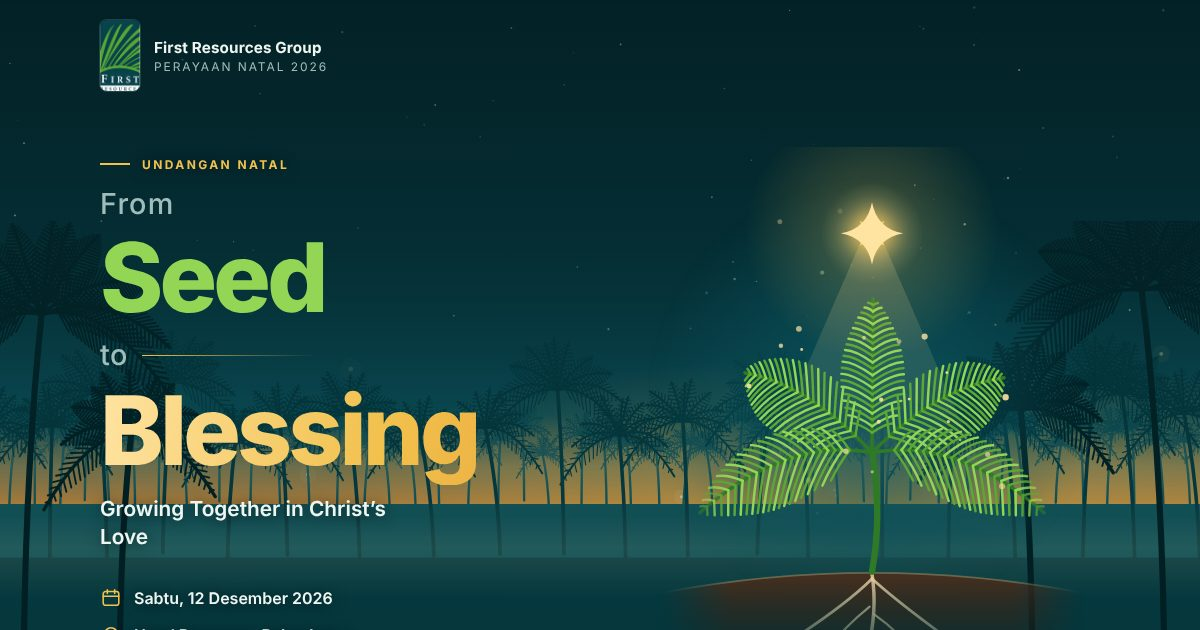
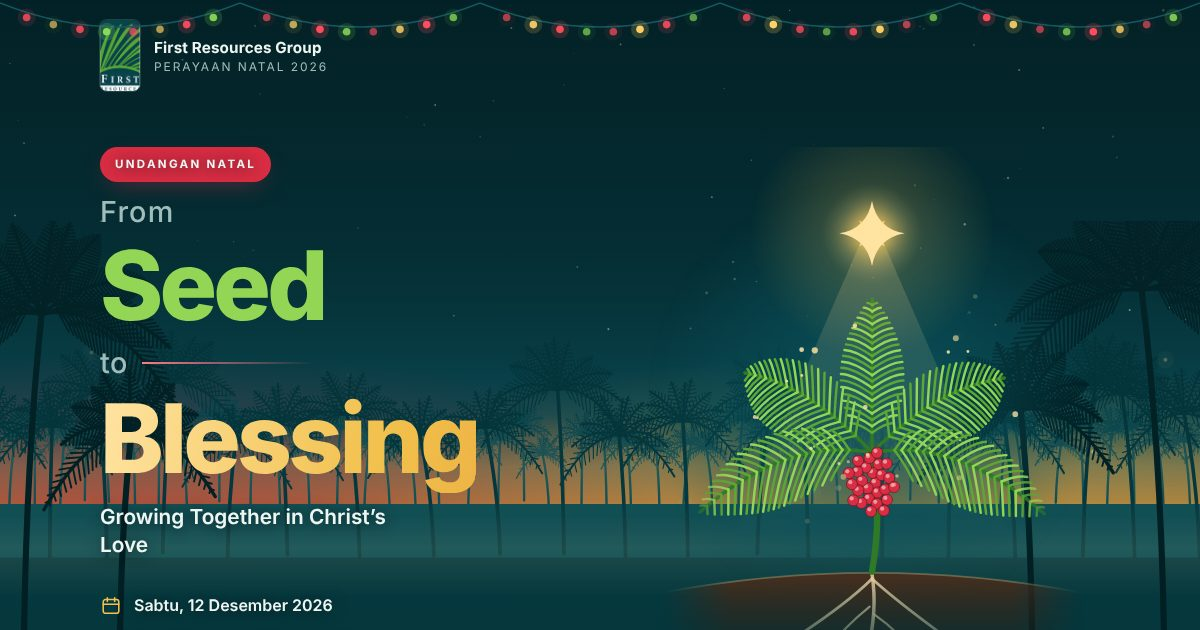
Ganti Warna

diff --git a/index.html b/index.html
@@ -46,6 +46,11 @@
     --gold: #f2c14e;
     --gold-soft: #ffe3a1;
     --gold-glow: rgba(242, 193, 78, 0.55);
+    --red: #d92d43;
+    --red-deep: #8e1628;
+    --red-soft: #ff7a8a;
+    --red-glow: rgba(217, 45, 67, 0.6);
+    --red-line: rgba(255, 122, 138, 0.35);
     --root: #e6cfa3;
     --soil: #4a3322;
     --soil-deep: #1d150f;
@@ -84,8 +89,10 @@
     position: absolute; inset: 0;
     background:
       radial-gradient(70% 34% at 74% 80%, rgba(242, 193, 78, .5), rgba(242, 193, 78, 0) 70%),
+      radial-gradient(75% 36% at 12% 82%, rgba(217, 45, 67, .6), rgba(217, 45, 67, 0) 72%),
       linear-gradient(180deg, var(--sky-0) 0%, var(--sky-1) 42%, var(--sky-2) 66%, var(--dawn) 80%, var(--sky-2) 100%);
   }
+  .lights { position: absolute; top: 0; left: 0; width: 100%; height: 84px; pointer-events: none; }
   .fx { position: absolute; inset: 0; width: 100%; height: 100%; }
   .pl { position: absolute; left: 0; width: 100%; will-change: transform; }
   .mist {
@@ -109,10 +116,10 @@
 
   .hero-grid { display: grid; gap: 4px 40px; grid-template-columns: minmax(0, 1fr); margin-top: 34px; }
   .eyebrow {
-    display: inline-flex; align-items: center; gap: 12px; margin: 0;
-    font-size: .75rem; font-weight: 700; letter-spacing: .2em; text-transform: uppercase; color: var(--gold);
+    display: inline-flex; align-items: center; margin: 0; padding: 8px 15px; border-radius: 999px;
+    background: var(--red); color: var(--snow); box-shadow: 0 8px 24px -10px var(--red-glow);
+    font-size: .72rem; font-weight: 700; letter-spacing: .2em; text-transform: uppercase;
   }
-  .eyebrow::before { content: ""; width: 30px; height: 2px; background: var(--gold); }
 
   h1 {
     margin: 16px 0 0;
@@ -132,8 +139,8 @@
     margin-block: .7em .6em;
   }
   h1 .to::after {
-    content: ""; flex: 0 1 6em; height: 1px; transform-origin: left;
-    background: linear-gradient(90deg, var(--gold), transparent);
+    content: ""; flex: 0 1 6em; height: 2px; transform-origin: left;
+    background: linear-gradient(90deg, var(--red-soft), transparent);
     animation: grow 1.1s .6s cubic-bezier(.2, .7, .2, 1) both;
   }
   h1 .bless { padding-bottom: .12em; margin-bottom: -.12em; color: var(--gold); background: linear-gradient(100deg, var(--gold-soft), var(--gold) 55%, #e8a63a); -webkit-background-clip: text; background-clip: text; }
@@ -179,6 +186,8 @@
     transition: transform .2s ease, background-color .2s ease, box-shadow .2s ease;
   }
   .btn:hover { background: var(--gold-soft); transform: translateY(-2px); }
+  .btn.red { background: var(--red); color: var(--snow); box-shadow: 0 10px 30px -12px var(--red-glow); }
+  .btn.red:hover { background: #ea4a5e; }
   .btn.ghost { background: transparent; color: var(--snow); border-color: var(--line-strong); box-shadow: none; }
   .btn.ghost:hover { background: rgba(238, 246, 242, .08); }
   .btn[aria-disabled="true"] { background: transparent; color: var(--mist); border-color: var(--line-strong); box-shadow: none; cursor: default; transform: none; }
@@ -189,10 +198,10 @@
     margin: 0; display: flex; align-items: center; gap: 12px;
     font-size: .75rem; font-weight: 700; letter-spacing: .18em; text-transform: uppercase; color: var(--mist);
   }
-  .label::before { content: ""; width: 22px; height: 2px; background: var(--palm); }
+  .label::before { content: ""; width: 22px; height: 2px; background: var(--red); }
   .cd { display: grid; grid-template-columns: repeat(4, minmax(0, 1fr)); margin-top: 18px; }
   .cd > div { padding-right: 10px; }
-  .cd > div + div { padding-left: 14px; border-left: 1px solid var(--line); }
+  .cd > div + div { padding-left: 14px; border-left: 1px solid var(--red-line); }
   .cd-n { font-family: var(--f-display); font-weight: 700; font-size: clamp(2.2rem, 11.5vw, 3.8rem); line-height: 1; letter-spacing: -.03em; font-variant-numeric: tabular-nums; }
   .cd-l { margin-top: 8px; font-size: .72rem; letter-spacing: .16em; text-transform: uppercase; color: var(--mist); }
   .cd-done { margin: 18px 0 0; font-family: var(--f-display); font-weight: 700; font-size: clamp(1.6rem, 7vw, 2.4rem); line-height: 1.15; color: var(--gold); }
@@ -208,11 +217,11 @@
   .lead { margin: 0; font-family: var(--f-display); font-weight: 600; font-size: clamp(1.55rem, 6.4vw, 2.4rem); line-height: 1.18; letter-spacing: -.02em; text-wrap: balance; }
   .lead em, .stages b { font-style: normal; }
   .c-benih { --c: var(--palm-hi); --c2: var(--root); }
-  .c-akar { --c: var(--root); --c2: var(--gold); }
-  .c-berkat { --c: var(--gold); }
+  .c-akar { --c: var(--root); --c2: var(--red-soft); }
+  .c-berkat { --c: var(--red-soft); }
   .lead em { color: var(--c); }
 
-  .verse { margin: 28px 0 0; padding: 0; max-width: 54ch; }
+  .verse { margin: 28px 0 0; padding: 2px 0 2px 18px; max-width: 54ch; border-left: 3px solid var(--red); }
   .verse p { margin: 0; font-size: 1.05rem; color: var(--snow); }
   .verse cite { display: block; margin-top: 12px; font-style: normal; font-weight: 700; font-size: .8rem; letter-spacing: .16em; text-transform: uppercase; color: var(--gold); }
 
@@ -237,8 +246,8 @@
   .actions { display: flex; flex-wrap: wrap; gap: 12px; margin-top: 30px; }
 
   .rsvp-panel {
-    padding: 30px 22px 26px; border-radius: 24px; border: 1px solid var(--line);
-    background: linear-gradient(160deg, var(--teal-2), var(--teal) 70%);
+    padding: 30px 22px 26px; border-radius: 24px; border: 1px solid var(--red-line);
+    background: linear-gradient(160deg, var(--red-deep), #4f0d1a 78%);
   }
   .rsvp-panel p { margin: 0; max-width: 46ch; color: var(--snow); }
   .asks { list-style: none; margin: 24px 0 28px; padding: 0; border-top: 1px solid var(--line); }
@@ -282,6 +291,8 @@
 </style>
 </head>
 <body>
+<canvas class="lights" id="lights" aria-hidden="true"></canvas>
+
 <div class="scene" aria-hidden="true">
   <div class="sky"></div>
   <canvas class="fx" id="fx"></canvas>
@@ -323,7 +334,7 @@
             <span>Hotel Pangeran, Pekanbaru</span>
           </li>
         </ul>
-        <a class="btn" href="#rsvp">Konfirmasi Kehadiran</a>
+        <a class="btn red" href="#rsvp">Konfirmasi Kehadiran</a>
       </div>
     </div>
   </header>
@@ -400,7 +411,7 @@
   /* Pengaturan yang mungkin diubah panitia */
   var CONFIG = {
     tanggal: '2026-12-12T00:00:00+07:00',
-    formUrl: 'https://docs.google.com/forms/d/e/1FAIpQLSf_RERWH_88UIXG8v-10HI5JQ9boYdxEeEpC-IaVxxR_7iW7Q/viewform?usp=publish-editor' /* isi dengan tautan Google Form kehadiran */
+    formUrl: '' /* isi dengan tautan Google Form kehadiran */
   };
 
   var reduce = !!(window.matchMedia && window.matchMedia('(prefers-reduced-motion: reduce)').matches);
@@ -502,6 +513,7 @@
 
     var vw = 0, vh = 0, extra = 0, topY = 0, stars = [], flies = [];
     var fctx = fx.getContext('2d');
+    var lights = document.getElementById('lights'), lctx = lights && lights.getContext ? lights.getContext('2d') : null, ldpr = 1;
     var PAR = [{ k: 0.05 }, { k: 0.12 }, { k: 0.22 }];
 
     function build() {
@@ -539,6 +551,7 @@
         }
       }
       fx.width = vw; fx.height = vh;
+      if (lctx) { ldpr = Math.min(window.devicePixelRatio || 1, 2); lights.width = Math.round(vw * ldpr); lights.height = Math.round(84 * ldpr); }
       stars = []; flies = [];
       for (var i = 0; i < 70; i++) stars.push({ x: rr(0, vw), y: rr(0, vh * 0.55), r: rr(0.4, 1.3), p: rr(0, 6.28) });
       for (var j = 0; j < 28; j++) flies.push({ x: rr(0, vw), v: rr(7, 16), o: rr(0, 600), p: rr(0, 6.28), r: rr(1.2, 2.5) });
@@ -546,7 +559,33 @@
       onScroll();
     }
 
+    function drawLights(t) {
+      if (!lctx) return;
+      lctx.setTransform(ldpr, 0, 0, ldpr, 0, 0);
+      lctx.clearRect(0, 0, vw, 84);
+      var n = Math.max(2, Math.round(vw / (vw < 700 ? vw / 3 : 230))), sag = 24, y0 = 3, idx = 0, i, k;
+      var cols = ['#ff4d5e', '#ffd166', '#ff4d5e', '#8bdc55'];
+      lctx.lineWidth = 1.4; lctx.strokeStyle = '#14575f';
+      for (i = 0; i < n; i++) {
+        var x0 = i * vw / n, x1 = (i + 1) * vw / n, xm = (x0 + x1) / 2;
+        lctx.globalAlpha = 1;
+        lctx.beginPath(); lctx.moveTo(x0, y0); lctx.quadraticCurveTo(xm, y0 + 2 * sag, x1, y0); lctx.stroke();
+        var cnt = Math.max(4, Math.round((x1 - x0) / 26));
+        for (k = 1; k < cnt; k++) {
+          var u = k / cnt, a = 1 - u;
+          var bx = a * a * x0 + 2 * a * u * xm + u * u * x1;
+          var by = a * a * y0 + 2 * a * u * (y0 + 2 * sag) + u * u * y0 + 5;
+          var tw = 0.6 + 0.4 * Math.sin(t * 2.2 + idx * 1.7);
+          lctx.fillStyle = cols[idx % 4]; idx++;
+          lctx.globalAlpha = 0.2 * tw; lctx.beginPath(); lctx.arc(bx, by, 9, 0, 6.2832); lctx.fill();
+          lctx.globalAlpha = 0.55 + 0.45 * tw; lctx.beginPath(); lctx.arc(bx, by, 3.8, 0, 6.2832); lctx.fill();
+        }
+      }
+      lctx.globalAlpha = 1;
+    }
+
     function drawFx(t) {
+      drawLights(t);
       fctx.clearRect(0, 0, vw, vh);
       var i, q;
       fctx.fillStyle = '#fff4d6';
@@ -615,7 +654,7 @@
   var C = {
     palm: tok('--palm', '#5ca735'), palmHi: tok('--palm-hi', '#93d655'), palmDeep: tok('--palm-deep', '#2f7a26'),
     gold: tok('--gold', '#f2c14e'), goldSoft: tok('--gold-soft', '#ffe3a1'), root: tok('--root', '#e6cfa3'),
-    soil: tok('--soil', '#4a3322'), soilDeep: tok('--soil-deep', '#1d150f')
+    soil: tok('--soil', '#4a3322'), soilDeep: tok('--soil-deep', '#1d150f'), red: tok('--red', '#d92d43')
   };
   function hexA(h, a) {
     var n = parseInt(h.replace('#', ''), 16);
@@ -771,6 +810,19 @@
       ctx.beginPath(); ctx.ellipse(0, 0, 8.5, 12, 0, 0, 6.2832); ctx.fillStyle = C.gold; ctx.fill();
       ctx.beginPath(); ctx.ellipse(-2.5, -3.5, 2.2, 4.5, 0, 0, 6.2832); ctx.fillStyle = hexA('#ffffff', 0.45); ctx.fill();
       ctx.restore();
+    }
+
+    /* tandan buah sawit */
+    var fp = seg(t, 4.0, 5.0);
+    if (fp > 0) {
+      var fe = easeBack(fp), br = 4.8 * Math.min(1, fe);
+      for (var bi = 0; bi < 26; bi++) {
+        var rad = Math.sqrt((bi + 0.5) / 26), aa = bi * 2.39996;
+        var bx = CX + 21 * rad * Math.cos(aa) * fe, by = CROWN + 26 + 28 * rad * Math.sin(aa) * fe;
+        ctx.beginPath(); ctx.arc(bx, by, br, 0, 6.2832); ctx.fillStyle = C.red; ctx.fill();
+        ctx.lineWidth = 0.8; ctx.strokeStyle = hexA('#5a0a16', 0.55); ctx.stroke();
+        ctx.beginPath(); ctx.arc(bx - 1.4, by - 1.6, br * 0.38, 0, 6.2832); ctx.fillStyle = hexA('#ffffff', 0.5); ctx.fill();
+      }
     }
 
     /* bintang Natal */
